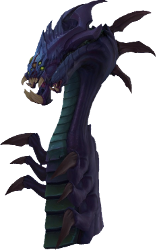
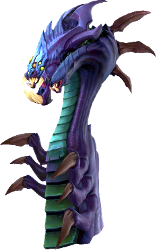
more contast

diff --git a/lol_npcs.css b/lol_npcs.css
@@ -65,7 +65,7 @@
 }
 .lol_npcs-warrior {
   background-position: -0px -600px;
-  width: 53px;
+  width: 54px;
   height: 50px;
 }
 .lol_npcs-wolve {
